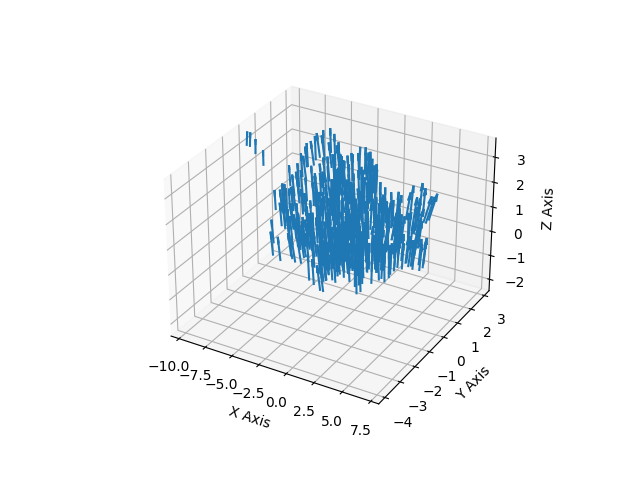
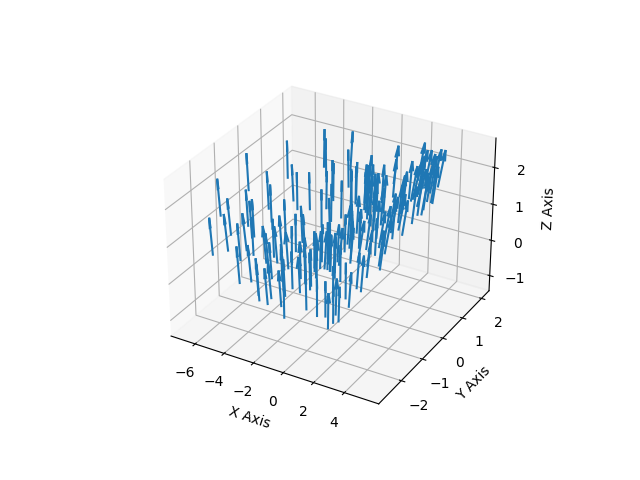
[Feat] runtimeSDOnly interp test set, include inertia check time

diff --git a/render_runtimeSD.py b/render_runtimeSD.py
@@ -15,6 +15,7 @@ import numpy as np
 import torch
 from scene import Scene
 import os
+import sys
 # import shutil
 # import glob
 # import re
@@ -45,7 +46,9 @@ def insert_interpolated_views(views, N: int):
     #     return list(views)
 
     out = []
-    for i in range(len(views)-1): # for jetson
+    
+    # for i in range(len(views)-1): # for jetson
+    for i in range(len(views)-51, len(views)-1): # for jetson
         left = views[i]
         right = views[i + 1]
         out.append(left)  # 先放入左端原始元素
@@ -114,20 +117,20 @@ def render_set(model_path, name, iteration, views, gaussians, pipeline, backgrou
     print("point nums:", point_nums)
     total_time = 0
     cur_time = 0.0 # time_stampe
-    pre_pos_bias = torch.zeros(point_nums, 3)
-    cur_pos_bias = torch.zeros(point_nums, 3, device="cpu")
-    pre_scale_bias = torch.zeros(point_nums, 3)
-    pre_rot_bias = torch.zeros(point_nums, 4)
-    grid_pos_bias = torch.zeros(point_nums, 3, device="cpu")
-    cur_scale_bias = torch.zeros(point_nums, 3, device="cpu")
-    cur_rot_bias = torch.zeros(point_nums, 4, device="cpu")
-    static_mask = torch.zeros(point_nums, 1, device="cpu") # 1 for static, 0 for non-static
-    group_static_mask = torch.zeros(group_nums, 1, device="cpu") # 1 for static, 0 for non-static
-    ref_scale = gaussians._scaling.to("cpu")
-    ref_rot = gaussians._rotation.to("cpu")
+    pre_pos_bias = torch.zeros(point_nums, 3,  device="cuda")
+    pre_scale_bias = torch.zeros(point_nums, 3,  device="cuda")
+    pre_rot_bias = torch.zeros(point_nums, 4,  device="cuda")
+    # grid_pos_bias = torch.zeros(point_nums, 3, device="cuda")
+    cur_pos_bias = torch.zeros(point_nums, 3, device="cuda")
+    cur_scale_bias = torch.zeros(point_nums, 3, device="cuda")
+    cur_rot_bias = torch.zeros(point_nums, 4, device="cuda")
+    static_mask = torch.zeros(point_nums, 1, device="cuda") # 1 for static, 0 for non-static
+    group_static_mask = torch.zeros(group_nums, 1, device="cuda") # 1 for static, 0 for non-static
+    ref_scale = gaussians._scaling.to("cuda")
+    ref_rot = gaussians._rotation.to("cuda")
     print("ref_scale:", ref_scale.shape)
     print("ref_rot:", ref_rot.shape)
-    mean_relative_pos_bias = torch.zeros(point_nums, 1, device="cpu")
+    # mean_relative_pos_bias = torch.zeros(point_nums, 1, device="cuda")
     for idx, view in enumerate(tqdm(views, desc="Rendering progress")):
         # if idx == 0:
         #     time1=time()
@@ -136,21 +139,21 @@ def render_set(model_path, name, iteration, views, gaussians, pipeline, backgrou
         # if idx <= 150: # for jetson
             # continue
         if idx == 150: # for jetson
-            break
+            sys.exit()
          
         if (idx%3 == 0):
             ### full dynamic
-            static_mask = torch.zeros(point_nums, 1, device="cpu")
+            static_mask = torch.zeros(point_nums, 1, device="cuda")
         group_static_mask = static_mask[:group_nums*in_cluster_gauss_nums].view(group_nums, in_cluster_gauss_nums).min(dim=1).values
         # else:
             # # interp
-            # time_next = view.time.to("cpu")
+            # time_next = view.time.to("cuda")
             # cur_pos_bias_interp = cur_pos_bias + grid_pos_bias * (time_next - cur_time)
             # cur_pos_bias = torch.where((0.005 <= mean_relative_pos_bias) & (mean_relative_pos_bias < 0.02), cur_pos_bias_interp, cur_pos_bias)
         print(f"[INFO] >>>>>>Begin frame-{idx} rendering, timeStamp: {view.time}")
         torch.cuda.synchronize()
         time_sub_1 = time()
-        render_pkg = render(view, gaussians, pipeline, background,cam_type=cam_type, frame_id=idx, group_static_mask=group_static_mask, ref_pos_bias=cur_pos_bias.cuda(), ref_scale_bias=cur_scale_bias.cuda(), ref_rot_bias=cur_rot_bias.cuda(), in_cluster_gauss_nums=in_cluster_gauss_nums)
+        render_pkg = render(view, gaussians, pipeline, background,cam_type=cam_type, frame_id=idx, group_static_mask=group_static_mask, ref_pos_bias=cur_pos_bias, ref_scale_bias=cur_scale_bias, ref_rot_bias=cur_rot_bias, in_cluster_gauss_nums=in_cluster_gauss_nums)
         torch.cuda.synchronize()
         time_sub_2 = time()
         print(f"[INFO] >>>>>> End frame-{idx} rendering, render time:{time_sub_2-time_sub_1}")
@@ -164,7 +167,7 @@ def render_set(model_path, name, iteration, views, gaussians, pipeline, backgrou
         pos_bias = render_pkg["pos_bias"]
         scale_bias = render_pkg["scale_bias"]
         rot_bias = render_pkg["rot_bias"]
-        time_stampe = render_pkg["time_stampe"].to("cpu")
+        time_stampe = render_pkg["time_stampe"].to("cuda")
         if ((idx % 3) == 0):
             pre_time = cur_time
             cur_time = time_stampe
@@ -176,21 +179,21 @@ def render_set(model_path, name, iteration, views, gaussians, pipeline, backgrou
             cur_rot = rot_bias + ref_rot
         if (idx != 0 and idx % 3 == 0):
             print("<<<Post Static Dynamic Spliting>>>")
-            delta_time = cur_time - pre_time
+            # delta_time = cur_time - pre_time
             delta_pos_bias = cur_pos_bias - pre_pos_bias
             delta_scale_bias = cur_scale_bias - pre_scale_bias
-            delta_rot_bias = cur_rot_bias - pre_rot_bias 
-            abs_pre_pos_bias = torch.abs(pre_pos_bias)
-            abs_pre_scale_bias = torch.abs(pre_scale_bias)
-            abs_pre_rot_bias = torch.abs(pre_rot_bias)
-            norm_pos_change = (torch.norm(delta_pos_bias, p=2, dim=1).unsqueeze(1)) / bounding_scaler.to("cpu")
+            # delta_rot_bias = cur_rot_bias - pre_rot_bias 
+            # abs_pre_pos_bias = torch.abs(pre_pos_bias)
+            # abs_pre_scale_bias = torch.abs(pre_scale_bias)
+            # abs_pre_rot_bias = torch.abs(pre_rot_bias)
+            norm_pos_change = (torch.norm(delta_pos_bias, p=2, dim=1).unsqueeze(1)) / bounding_scaler.to("cuda")
             relative_scale_change = (torch.norm(delta_scale_bias/ref_scale, p=2, dim=1).unsqueeze(1))
             rot_qua_change = torch.sqrt(8*((1 - torch.sum(cur_rot * pre_rot, dim=1)/(torch.norm(cur_rot, p=2, dim=1)*torch.norm(pre_rot, p=2, dim=1))))).unsqueeze(1)
             
-            static_mask = torch.where((norm_pos_change < 0.002) & (relative_scale_change < 0.04) & (rot_qua_change < 0.2), torch.ones_like(static_mask, device="cpu"), torch.zeros_like(static_mask, device="cpu"))
-            pos_static = torch.where(norm_pos_change < 0.002, torch.ones_like(static_mask, device="cpu"), torch.zeros_like(static_mask, device="cpu"))
-            scale_static = torch.where(relative_scale_change < 0.04, torch.ones_like(static_mask, device="cpu"), torch.zeros_like(static_mask, device="cpu"))
-            rot_static = torch.where(rot_qua_change < 0.2, torch.ones_like(static_mask, device="cpu"), torch.zeros_like(static_mask, device="cpu"))
+            static_mask = torch.where((norm_pos_change < 0.002) & (relative_scale_change < 0.04) & (rot_qua_change < 0.2), torch.ones_like(static_mask, device="cuda"), torch.zeros_like(static_mask, device="cuda"))
+            pos_static = torch.where(norm_pos_change < 0.002, torch.ones_like(static_mask, device="cuda"), torch.zeros_like(static_mask, device="cuda"))
+            scale_static = torch.where(relative_scale_change < 0.04, torch.ones_like(static_mask, device="cuda"), torch.zeros_like(static_mask, device="cuda"))
+            rot_static = torch.where(rot_qua_change < 0.2, torch.ones_like(static_mask, device="cuda"), torch.zeros_like(static_mask, device="cuda"))
             # print(static_mask.shape)
             static_count = static_mask.sum().item()
             pos_static_count = pos_static.sum().item()

diff --git a/scene/deformation.py b/scene/deformation.py
@@ -276,7 +276,7 @@ class Deformation(nn.Module):
         time4 = get_time()
         print("mlp time",time4-time3)
         
-        return pts, scales, rotations, opacity, shs, dx.cpu(), ds.cpu(), dr.cpu()
+        return pts, scales, rotations, opacity, shs, dx, ds, dr
     def get_mlp_parameters(self):
         parameter_list = []
         for name, param in self.named_parameters():
